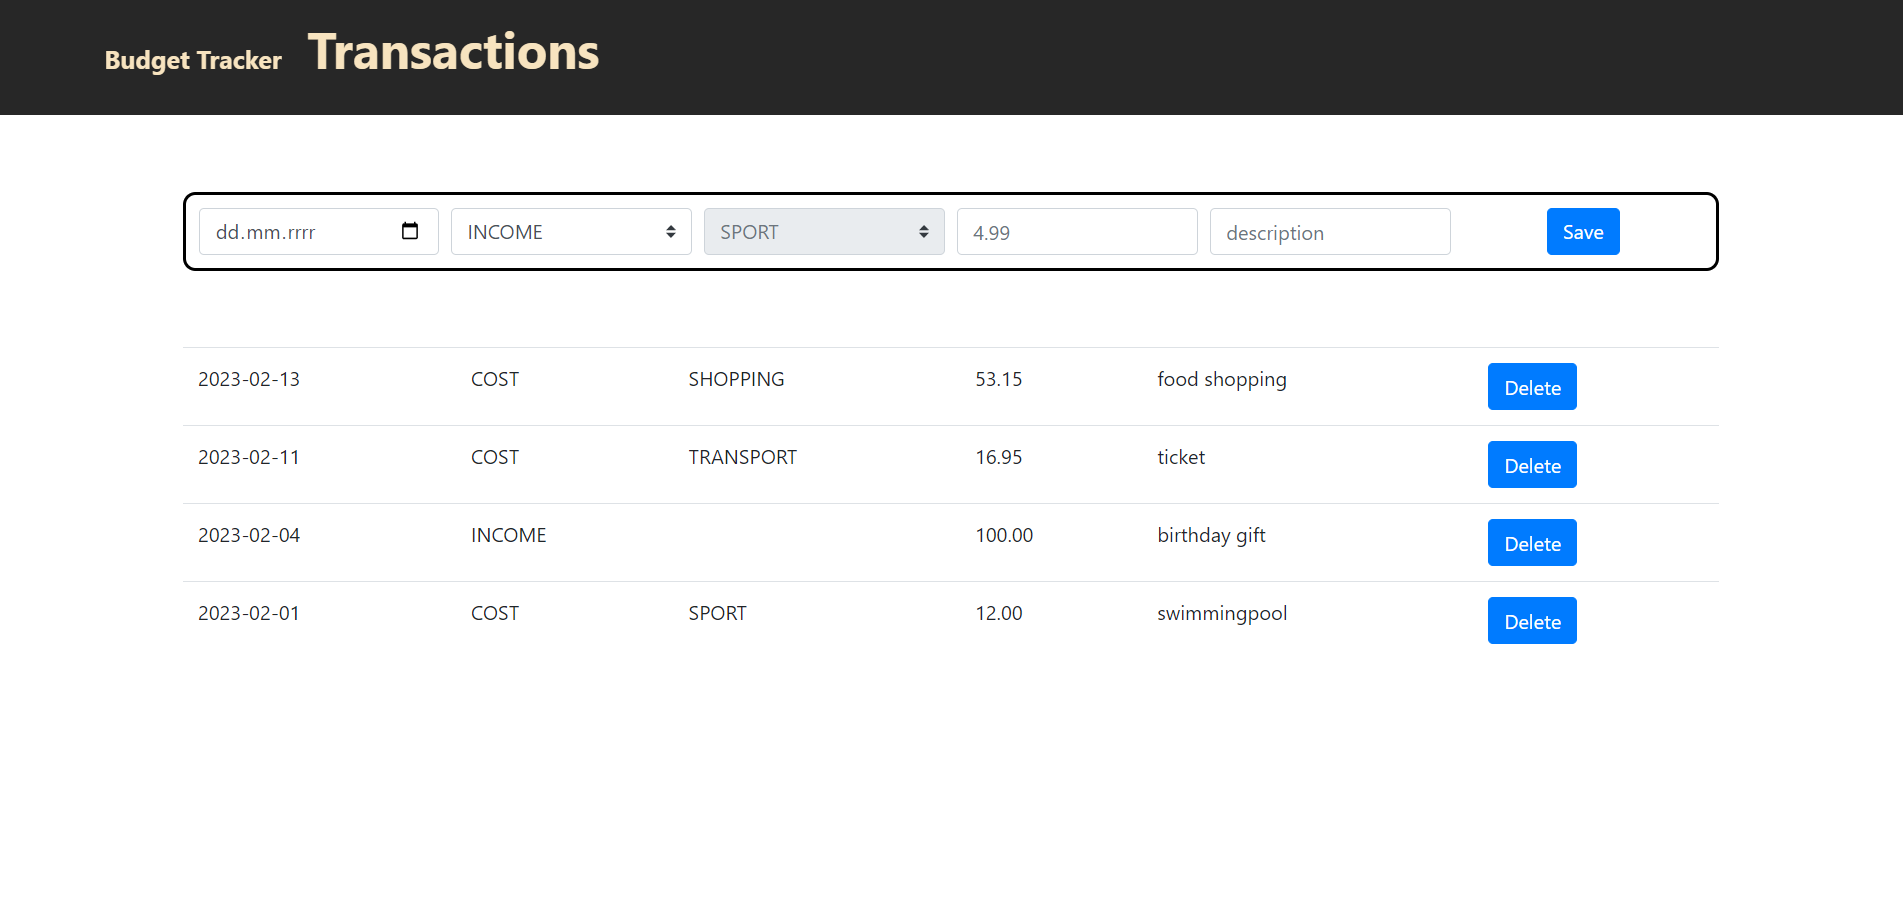
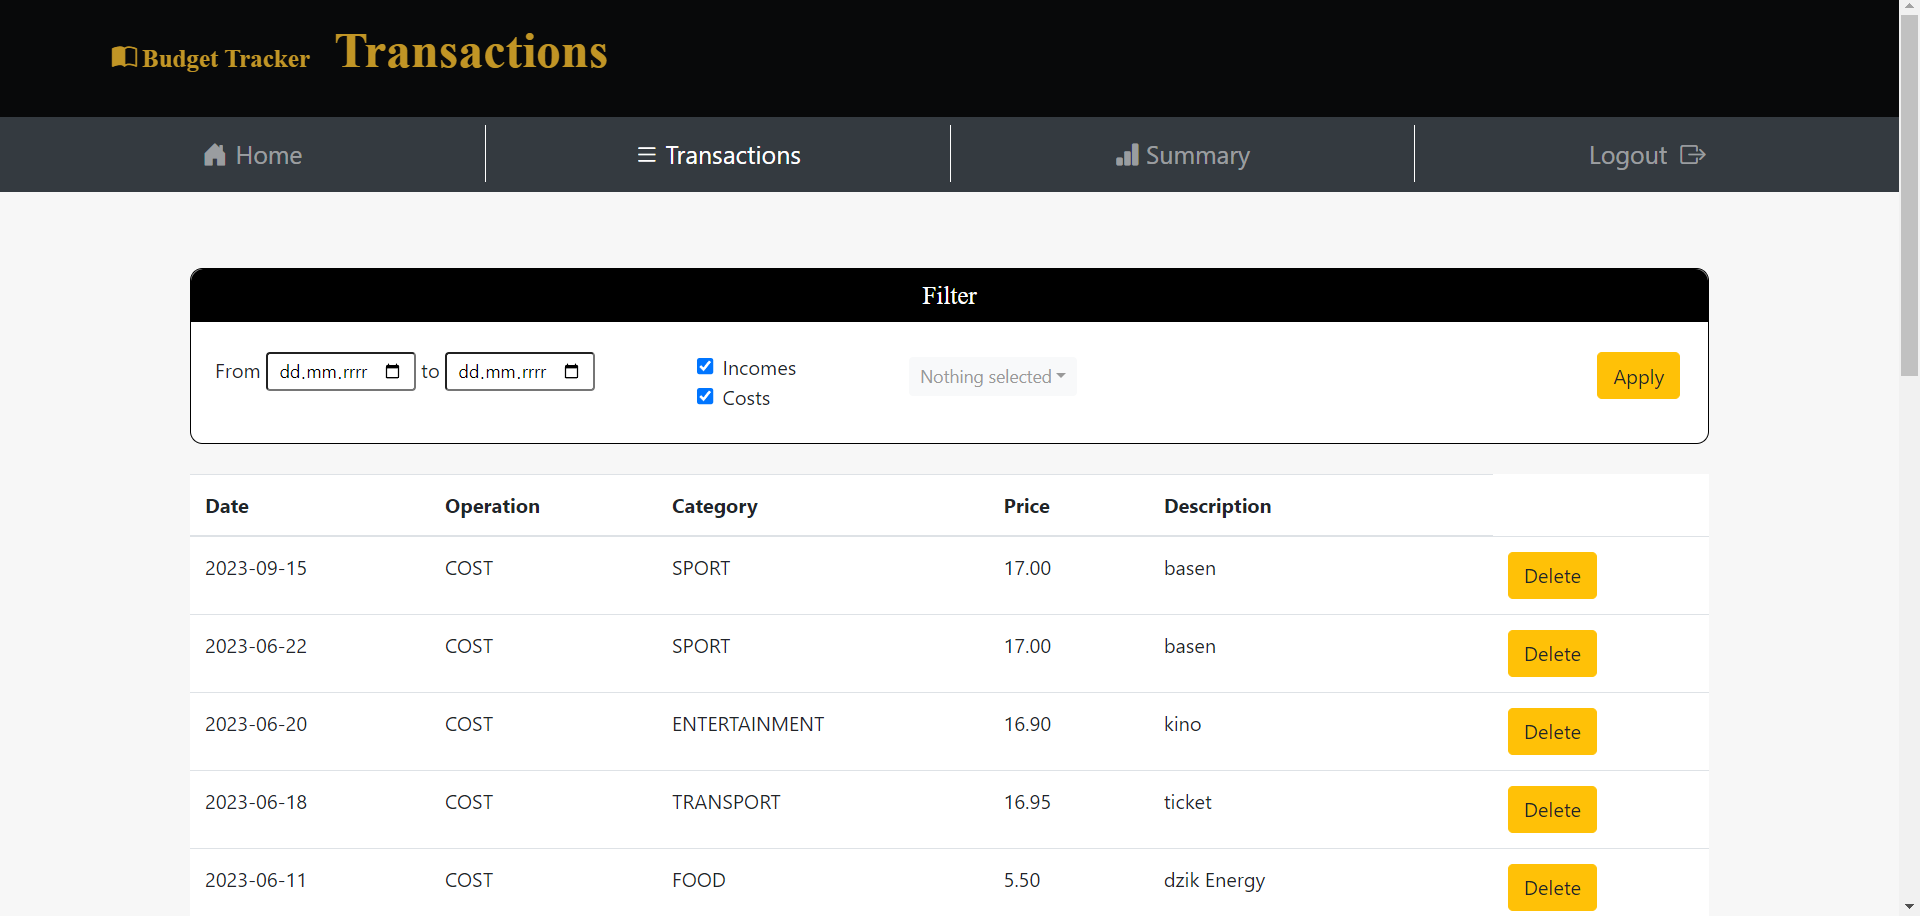
Update README.md

diff --git a/README.md b/README.md
@@ -6,7 +6,7 @@ Budget Tracker is an application to record and analyze your expenses. The applic
 income and expenses. The summaries are divided into monthly or yearly with the expenses listed by category.
 ![Register](img/register.png)
 ![Login](img/login.png)
-![Menu](img/menu.png)
+![Home](img/home.png)
 ![Transactions](img/transactions.png)
 ![Summary](img/summary1.png)
 ![Summary](img/summary2.png)
@@ -37,4 +37,3 @@ The following dependencies are downloaded with spring boot:
 * Add user settings
 * Add OAuth2
 * Possible to delete all transactions in one click
-* Add filter to transactions
